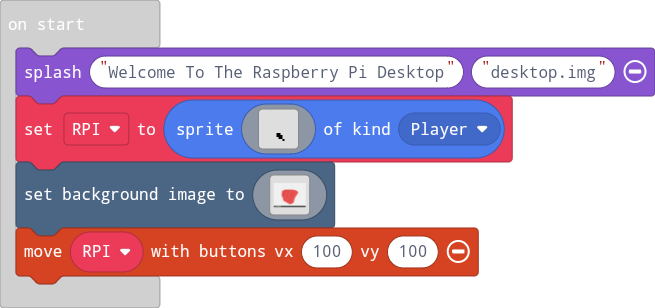
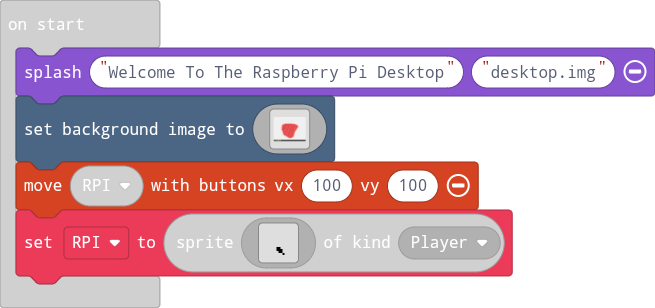
Update main.blocks, main.ts

diff --git a/main.ts b/main.ts
@@ -4,25 +4,8 @@ controller.B.onEvent(ControllerButtonEvent.Pressed, function () {
 controller.A.onEvent(ControllerButtonEvent.Pressed, function () {
     game.splash("RPI Desktop v1.0.0")
 })
+let RPI: Sprite = null
 game.splash("Welcome To The Raspberry Pi Desktop", "desktop.img")
-let RPI = sprites.create(img`
-    . . . . . . . . . . . . . . . . 
-    . . . . . . . . . . . . . . . . 
-    . . . . . . . . . . . . . . . . 
-    . . . . . . . . . . . . . . . . 
-    . . . . . . . . . . . . . . . . 
-    . . . . . . . . . . . . . . . . 
-    . . . . . . . . . . . . . . . . 
-    . . . . . . . . . . . . . . . . 
-    . . . . . . . . . . . . . . . . 
-    . . . . . . . . . . . . . . . . 
-    . . . . . . . f f . . . . . . . 
-    . . . . . . . f f f . . . . . . 
-    . . . . . . . . f f . . . . . . 
-    . . . . . . . . . . f . . . . . 
-    . . . . . . . . . . . . . . . . 
-    . . . . . . . . . . . . . . . . 
-    `, SpriteKind.Player)
 scene.setBackgroundImage(img`
     1111111111111111111111111111111111111111111111111111111111111111111111111111111111111111111111111111111111111111111111111111111111111111111111111111111111111111
     1111111111111111111111111111111111111111111111111111111111111111111111111111111111111111111111111111111111111111111111111111111111111111111111111111111111111111
@@ -146,3 +129,21 @@ scene.setBackgroundImage(img`
[1 lines of base64/hex data omitted]
     `)
 controller.moveSprite(RPI, 100, 100)
+RPI = sprites.create(img`
+    . . . . . . . . . . . . . . . . 
+    . . . . . . . . . . . . . . . . 
+    . . . . . . . . . . . . . . . . 
+    . . . . . . . . . . . . . . . . 
+    . . . . . . . . . . . . . . . . 
+    . . . . . . . . . . . . . . . . 
+    . . . . . . . . . . . . . . . . 
+    . . . . . . . . . . . . . . . . 
+    . . . . . . . . . . . . . . . . 
+    . . . . . . . . . . . . . . . . 
+    . . . . . . . f f . . . . . . . 
+    . . . . . . . f f f . . . . . . 
+    . . . . . . . . f f . . . . . . 
+    . . . . . . . . . . f . . . . . 
+    . . . . . . . . . . . . . . . . 
+    . . . . . . . . . . . . . . . . 
+    `, SpriteKind.Player)
